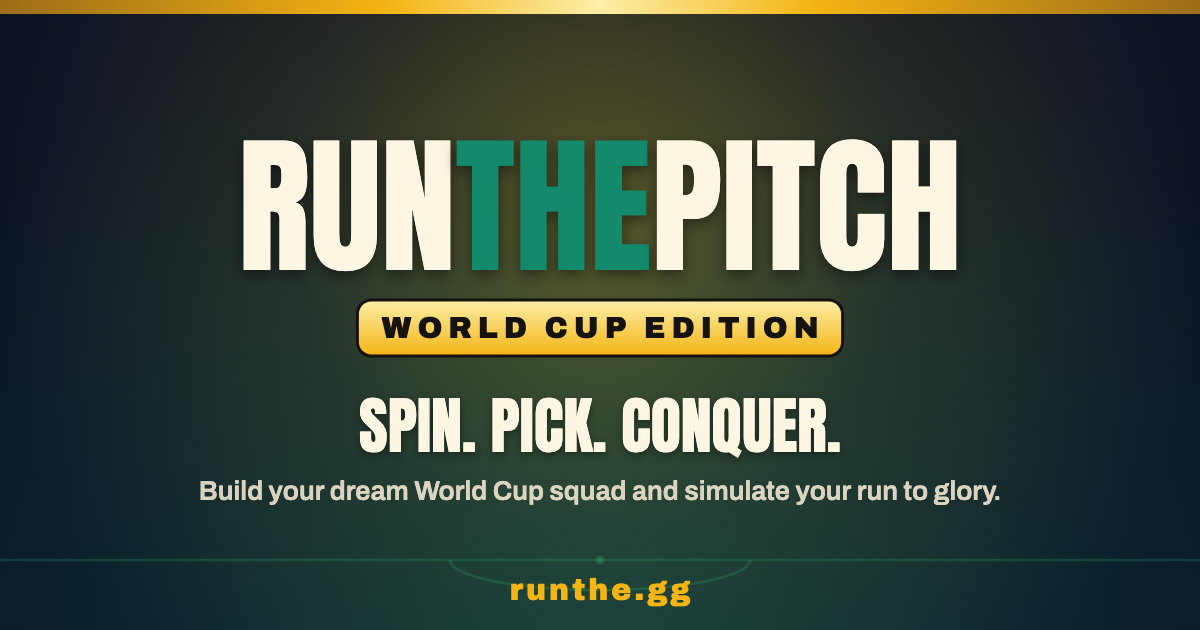
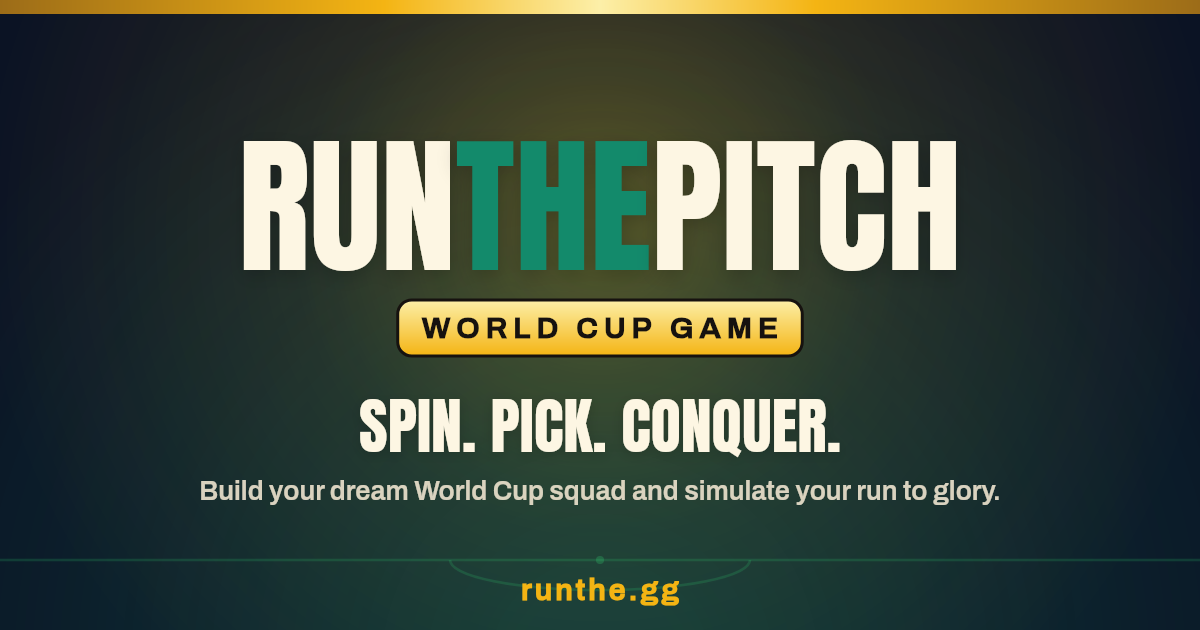
Regenerate og-image with 'WORLD CUP GAME' branding + bump cache-buster v3
Rendered the OG link-preview card from scripts/og-image.html (real Anton/Archivo
fonts) so the texted-link preview shows World Cup Game. og:image/twitter:image ?v=2 -> ?v=3.

diff --git a/index.html b/index.html
@@ -46,8 +46,8 @@
 <meta property="og:url" content="https://runthe.gg" />
 <meta property="og:title" content="RunThePitch: World Cup Game" />
 <meta property="og:description" content="Spin. Pick. Conquer. Build your dream World Cup squad and simulate your run to glory." />
-<meta property="og:image" content="https://runthe.gg/og-image.png?v=2" />
-<meta property="og:image:secure_url" content="https://runthe.gg/og-image.png?v=2" />
+<meta property="og:image" content="https://runthe.gg/og-image.png?v=3" />
+<meta property="og:image:secure_url" content="https://runthe.gg/og-image.png?v=3" />
 <meta property="og:image:type" content="image/png" />
 <meta property="og:image:width" content="1200" />
 <meta property="og:image:height" content="630" />
@@ -64,7 +64,7 @@
 <meta name="twitter:url" content="https://runthe.gg" />
 <meta name="twitter:title" content="RunThePitch: World Cup Game" />
 <meta name="twitter:description" content="Spin. Pick. Conquer. Build your dream World Cup squad and simulate your run to glory." />
-<meta name="twitter:image" content="https://runthe.gg/og-image.png?v=2" />
+<meta name="twitter:image" content="https://runthe.gg/og-image.png?v=3" />
 <meta name="twitter:image:alt" content="RunThePitch World Cup Game — Spin. Pick. Conquer." />
 
 <link rel="preconnect" href="https://fonts.googleapis.com">